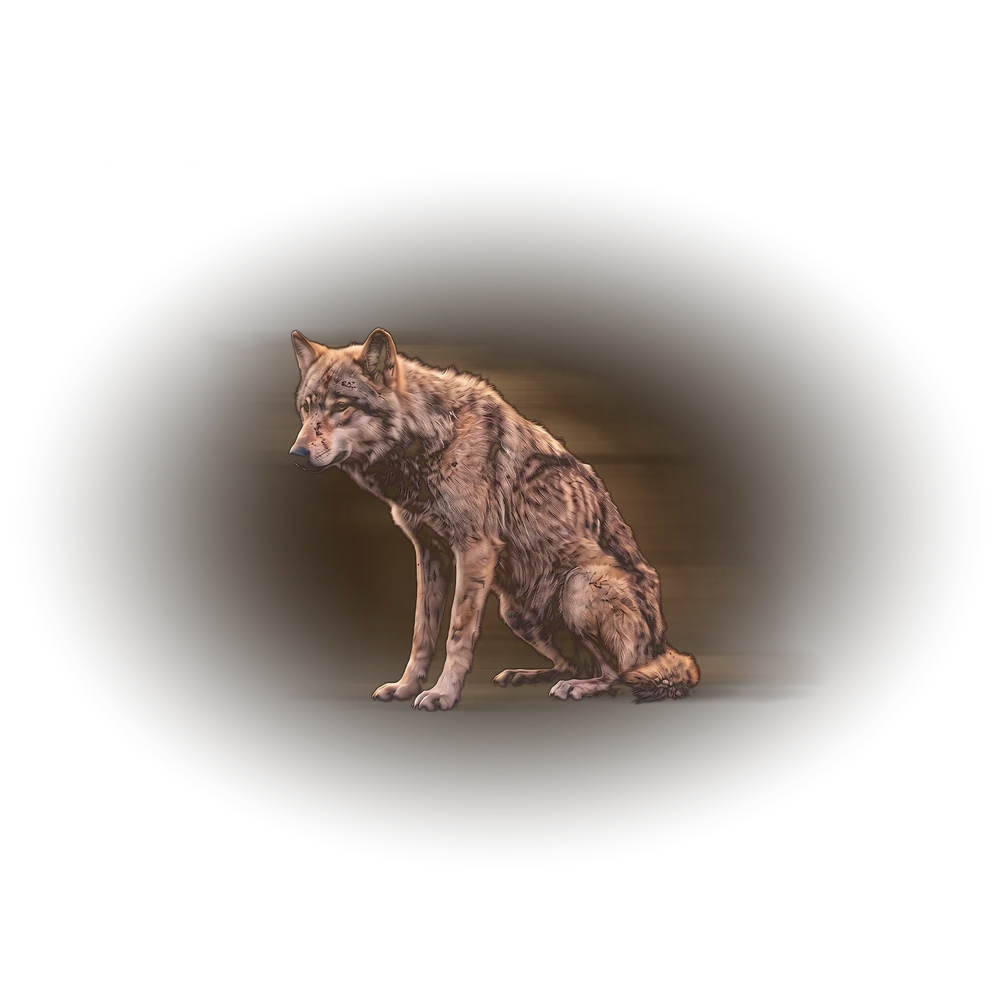
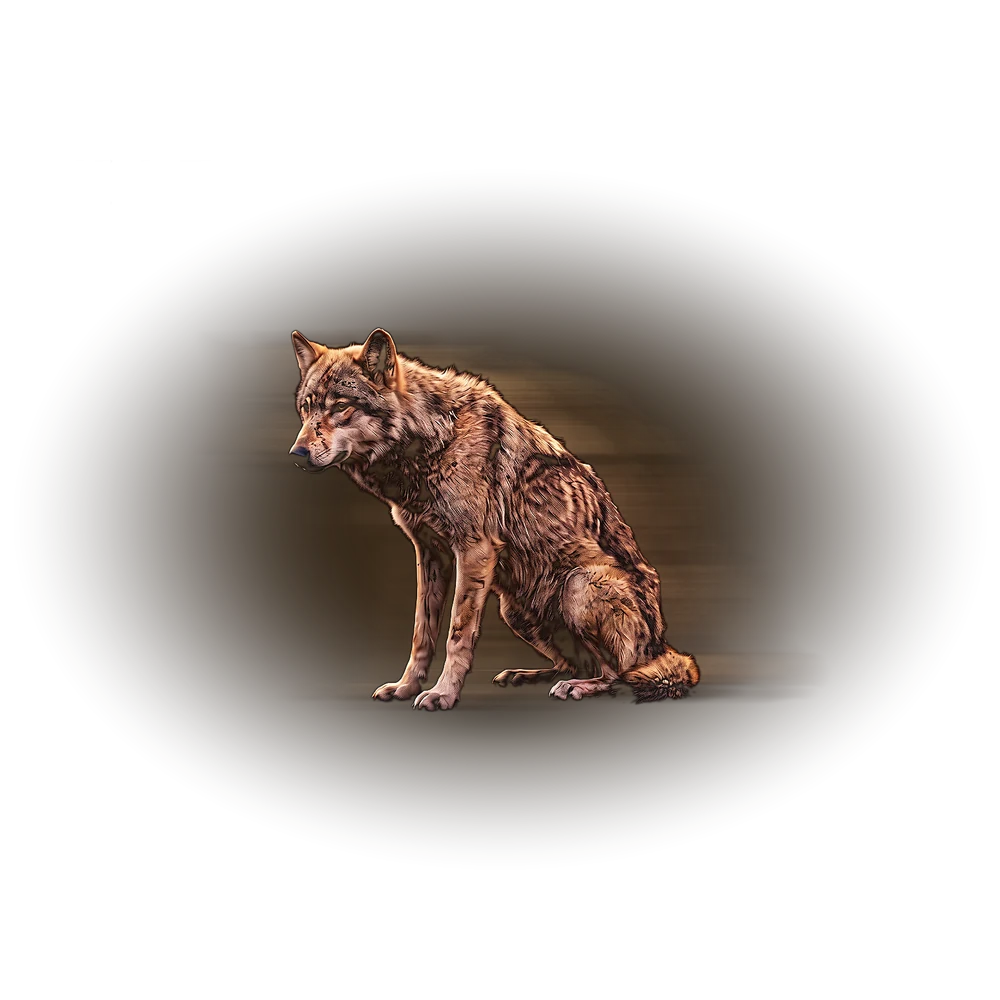
v4.3 graded wolf frames

Changed region(s): [[0.279, 0.31, 0.713, 0.713]]

diff --git a/preview.html b/preview.html
@@ -27,7 +27,7 @@
 <div class="pv">
   <h1>Wolf, 1 to 10</h1>
   <div class="stagebox">
-    <div class="hero"><div class="stage-art" id="wolfArt"><img class="a" id="wolfImg" src="img/wolf/01.webp?v=38" alt=""><span class="flick"></span><span class="flick b"></span></div></div>
+    <div class="hero"><div class="stage-art" id="wolfArt"><img class="a" id="wolfImg" src="img/wolf/01.webp?v=39" alt=""><span class="flick"></span><span class="flick b"></span></div></div>
     <div class="ctl"><button id="wPrev">‹</button><input type="range" id="wRange" min="1" max="10" value="1"><span class="n" id="wN">1</span><button id="wNext">›</button></div>
     <button class="btn play" id="wPlay">Play</button>
   </div>
@@ -79,10 +79,10 @@ for (const k in O){
   s.insertAdjacentHTML('beforeend',`<div class="ico"><span class="ic"><svg viewBox="0 0 20 20" fill="currentColor">${S[k]}</svg></span><span>${names[k]}</span></div>`);
 }
 function wire(kind,img,range,n,prev,next,play){
-  const set=v=>{v=Math.min(10,Math.max(1,v));range.value=v;n.textContent=v;if(img.tagName==='VIDEO'){img.poster=`img/${kind}/${String(v).padStart(2,'0')}.webp`;img.src=`img/${kind}/${String(v).padStart(2,'0')}.mp4`;img.play().catch(()=>{});}else{img.src=`img/${kind}/${String(v).padStart(2,'0')}.webp?v=38`;}};
+  const set=v=>{v=Math.min(10,Math.max(1,v));range.value=v;n.textContent=v;if(img.tagName==='VIDEO'){img.poster=`img/${kind}/${String(v).padStart(2,'0')}.webp`;img.src=`img/${kind}/${String(v).padStart(2,'0')}.mp4`;img.play().catch(()=>{});}else{img.src=`img/${kind}/${String(v).padStart(2,'0')}.webp?v=39`;}};
   range.oninput=()=>set(+range.value); prev.onclick=()=>set(+range.value-1); next.onclick=()=>set(+range.value+1);
   let t=null; play.onclick=()=>{ if(t){clearInterval(t);t=null;play.textContent='Play';return;} let v=1,dir=1; set(1); play.textContent='Stop'; t=setInterval(()=>{v+=dir; if(v>=10||v<=1) dir=-dir; set(v);},kind==='wolf'?2500:450); };
-  for (let i=1;i<=10;i++){ new Image().src=`img/${kind}/${String(i).padStart(2,'0')}.webp?v=38`; }
+  for (let i=1;i<=10;i++){ new Image().src=`img/${kind}/${String(i).padStart(2,'0')}.webp?v=39`; }
 }
 wire('wolf',wolfImg,wRange,wN,wPrev,wNext,wPlay); wire('brain',brainImg,bRange,bN,bPrev,bNext,bPlay);
 (function grain(){const cv=document.getElementById('grain');const c=cv.getContext('2d');const w=400,h=800;cv.width=w;cv.height=h;const f=[];for(let k=0;k<4;k++){const id=c.createImageData(w,h);const d=id.data;for(let i=0;i<d.length;i+=4){const v=96+(Math.random()*128)|0;d[i]=d[i+1]=d[i+2]=v;d[i+3]=255;}f.push(id);}let i=0;setInterval(()=>{c.putImageData(f[i],0,0);i=(i+1)%4;},125);})();

diff --git a/index.html b/index.html
@@ -14,7 +14,7 @@
 <link rel="icon" href="img/icon-180.png">
 <link rel="preload" href="fonts/fraunces-normal.woff2" as="font" type="font/woff2" crossorigin>
 <link rel="preload" href="fonts/archivo-normal.woff2" as="font" type="font/woff2" crossorigin>
-<link rel="stylesheet" href="styles.css?v=24">
+<link rel="stylesheet" href="styles.css?v=25">
 </head>
 <body>
 <!--
@@ -177,7 +177,7 @@ FINISH: unreviewed and undocumented is unfinished; this build ends with the fini
   <div class="sheet-row"><button class="btn" id="btnUpdate">Check for update</button><button class="btn ghost" id="btnClose">Close</button></div>
 </section>
 
-<script src="config.js?v=24"></script>
-<script src="app.js?v=24"></script>
+<script src="config.js?v=25"></script>
+<script src="app.js?v=25"></script>
 </body>
 </html>

diff --git a/sw.js b/sw.js
@@ -1,7 +1,7 @@
 // Wolf service worker: network-first for the app shell so a pushed update reaches the
 // phone on the next open, with the cache as the offline fallback. Artwork and fonts
 // are immutable per version and come from cache first.
-const VERSION = "wolf-v25";
+const VERSION = "wolf-v26";
 const STAGES = [];
 for (const k of ["wolf", "brain"]) for (let i = 1; i <= 10; i++) { const n = String(i).padStart(2, "0"); STAGES.push(`./img/${k}/${n}.webp`); }
 const SHELL = [

diff --git a/app.js b/app.js
@@ -3,7 +3,7 @@
   "use strict";
   const P = window.PLAN;
   const $ = (s) => document.querySelector(s);
-  const VERSION = "4.2";
+  const VERSION = "4.3";
   try { const qs = new URLSearchParams(location.search); if (/^\d{4}-\d{2}-\d{2}$/.test(qs.get("start") || "")) P.start = qs.get("start"); } catch {}
 
   /* ---------- dates ---------- */

diff --git a/tools/process_art11.py b/tools/process_art11.py
@@ -24,6 +24,27 @@ def key(img):
     alpha = np.asarray(Image.fromarray((alpha * 255).astype(np.uint8)).filter(ImageFilter.GaussianBlur(1.0)), np.float32) / 255
     return np.asarray(img.convert("RGB"), np.float32) / 255, alpha[..., None]
 
+def grade(rgb):
+    """Punch on the wolf only: black point down, S-curve, a little saturation, unsharp."""
+    x = np.clip((rgb - 0.07) / 0.93, 0, 1)                       # deeper blacks
+    x = np.where(x < 0.5, 0.5 * (2 * x) ** 1.35, 1 - 0.5 * (2 * (1 - x)) ** 1.35)   # S-curve
+    lum = (x @ np.array([0.3, 0.59, 0.11], np.float32))[..., None]
+    x = np.clip(lum + (x - lum) * 0.98, 0, 1)                    # saturation
+    im = Image.fromarray((x * 255).astype(np.uint8))
+    im = im.filter(ImageFilter.UnsharpMask(radius=2, percent=70, threshold=2))
+    return np.asarray(im, np.float32) / 255
+
+def contact_shadow(alpha, side):
+    """Soft dark ellipse under the lowest point of the wolf."""
+    a = alpha[..., 0]; rows = np.where(a.max(1) > 0.5)[0]; cols = np.where(a.max(0) > 0.5)[0]
+    if not len(rows): return np.zeros_like(alpha)
+    yb = rows.max(); cx = (cols.min() + cols.max()) / 2; w = (cols.max() - cols.min()) * 0.42
+    y, x = np.mgrid[0:side, 0:side].astype(np.float32)
+    r = np.sqrt(((x - cx) / w) ** 2 + ((y - yb) / (side * 0.035)) ** 2)
+    sh = np.clip(1 - r, 0, 1) ** 1.5
+    sh = np.asarray(Image.fromarray((sh * 255).astype(np.uint8)).filter(ImageFilter.GaussianBlur(side * 0.02)), np.float32) / 255
+    return sh[..., None] * 0.55
+
 def pool(cy):
     """Elliptical pool centred on the wolf: colour CENTRE->RIM, alpha 1 -> 0 with a long smooth tail."""
     y, x = np.mgrid[0:S, 0:S].astype(np.float32)
@@ -38,6 +59,7 @@ def stage(n, src, dst):
     z = ZOOM[n]; side = int(1220 * z)
     img = img.resize((side, side), Image.LANCZOS)
     rgb, alpha = key(img)
+    rgb = grade(rgb)
     ox = (S - side) // 2; oy = max(0, min(S - side, (S - side) // 2 + int((1 - z) * 60)))
     ys_w = np.where(alpha[..., 0].max(1) > 0.5)[0]; cy = oy + (ys_w.min() + ys_w.max()) / 2 if len(ys_w) else S / 2
     col, acc = pool(cy); col = col.copy(); acc = acc.copy()
@@ -53,10 +75,11 @@ def stage(n, src, dst):
         g_rgb = hblur(prem * 0.45 + grey * 0.55, k) * warm; g_a = hblur(alpha, k)
         g_col = np.where(g_a > 1e-4, g_rgb / np.maximum(g_a, 1e-4), 0)
         over(g_col, g_a, dx, 0, gain); over(g_col, g_a, -dx // 2, 0, gain * 0.6)
+    over(np.zeros_like(rgb) + np.array([0.06, 0.04, 0.03], np.float32), contact_shadow(alpha, side), 0, 0, 1.0)
     over(rgb, alpha, 0, 0, 1.0)
-    bright = np.clip((col.mean(-1, keepdims=True) - 0.55) / 0.45, 0, 1) * col * acc
+    bright = np.clip((col.mean(-1, keepdims=True) - 0.68) / 0.32, 0, 1) * col * acc
     bl = np.asarray(Image.fromarray((np.clip(bright, 0, 1) * 255).astype(np.uint8)).filter(ImageFilter.GaussianBlur(26)), np.float32) / 255
-    col = 1 - (1 - col) * (1 - bl * 0.35)
+    col = 1 - (1 - col) * (1 - bl * 0.22)
     out = np.concatenate([np.clip(col, 0, 1), np.clip(acc, 0, 1)], axis=-1)
     Image.fromarray((out * 255).astype(np.uint8), "RGBA").resize((OUT, OUT), Image.LANCZOS).save(dst, "WEBP", quality=88, method=6)
 
